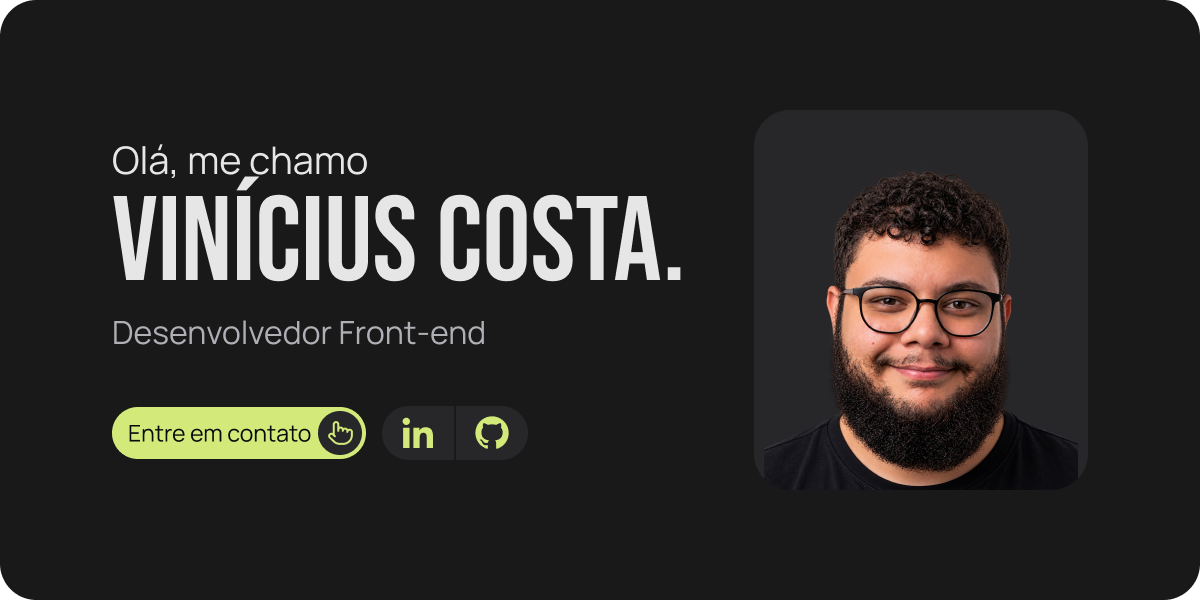
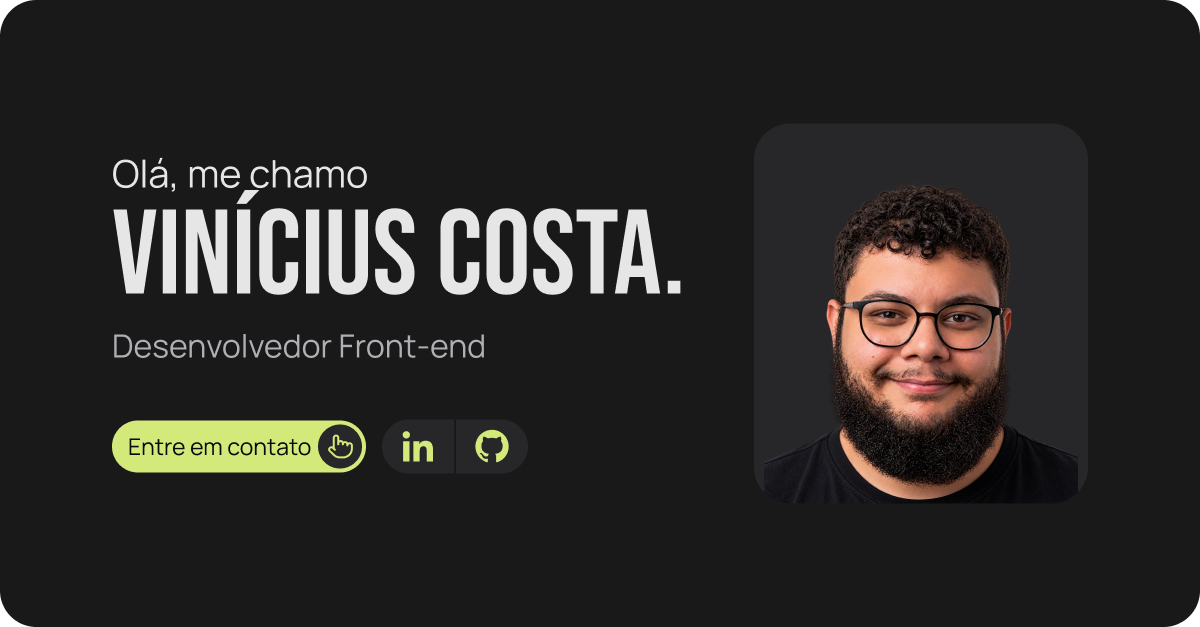
fix: update Open Graph and Twitter meta tags for improved sharing and SEO feat: add robots.txt for better web crawler management

diff --git a/index.html b/index.html
@@ -21,9 +21,11 @@
       property="og:description"
       content="Vinícius Costa — desenvolvedor front-end. Experiência com React, TypeScript, Next.js e Tailwind."
     />
-    <meta property="og:image" content="https://viniis.dev/og-image.png" />
+    <meta property="og:image" content="https://viniis.dev/og-image.png?v=1" />
+    <meta property="og:image:secure_url" content="https://viniis.dev/og-image.png?v=1" />
+    <meta property="og:image:type" content="image/png" />
     <meta property="og:image:width" content="1200" />
-    <meta property="og:image:height" content="630" />
+    <meta property="og:image:height" content="627" />
     <meta
       property="og:image:alt"
       content="Vinícius Costa — desenvolvedor front-end"
@@ -34,7 +36,7 @@
       name="twitter:description"
       content="Vinícius Costa — desenvolvedor front-end. Experiência com React, TypeScript, Next.js e Tailwind."
     />
-    <meta name="twitter:image" content="https://viniis.dev/og-image.png" />
+    <meta name="twitter:image" content="https://viniis.dev/og-image.png?v=1" />
     <script type="application/ld+json">
       {
         "@context": "https://schema.org",
